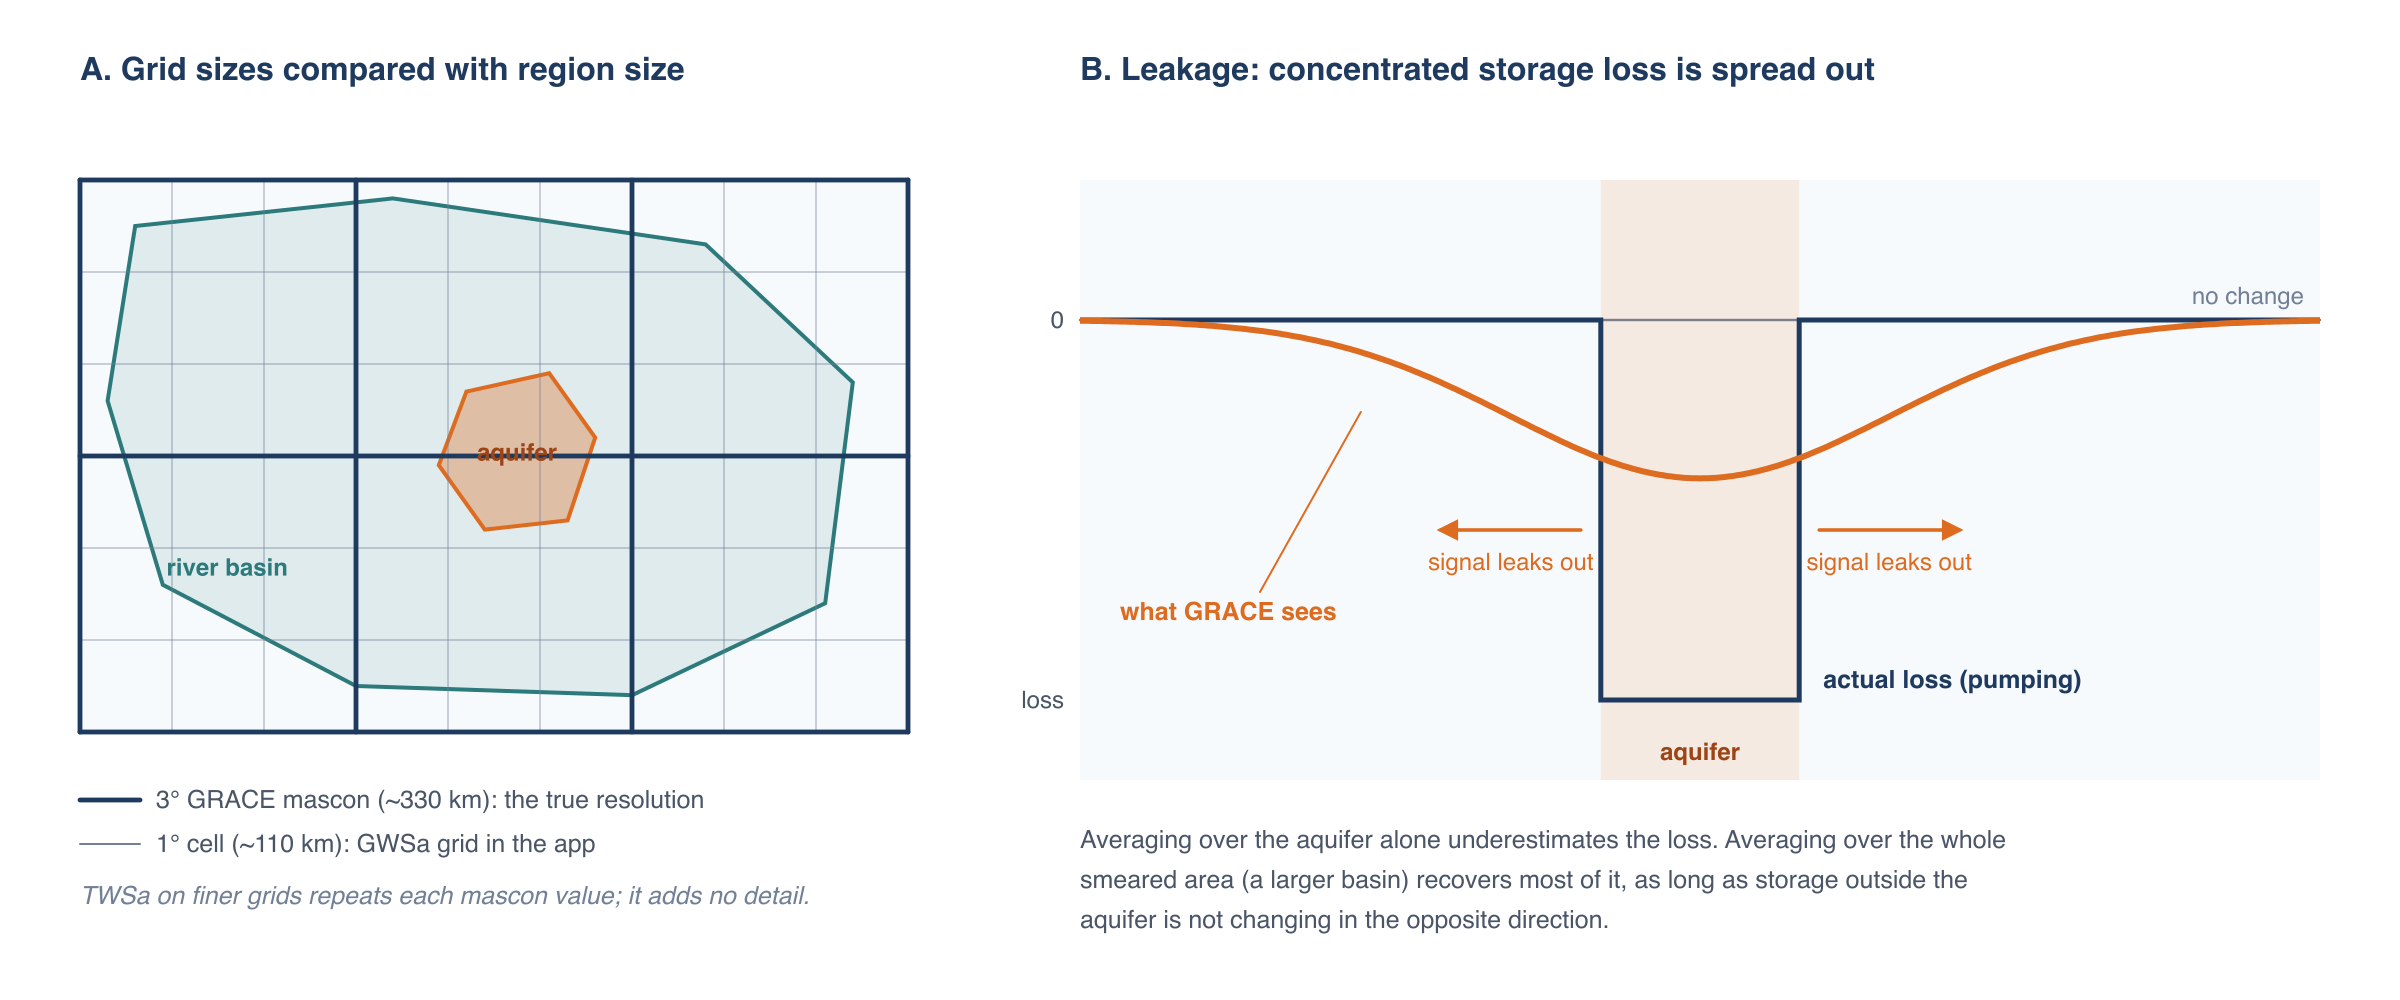
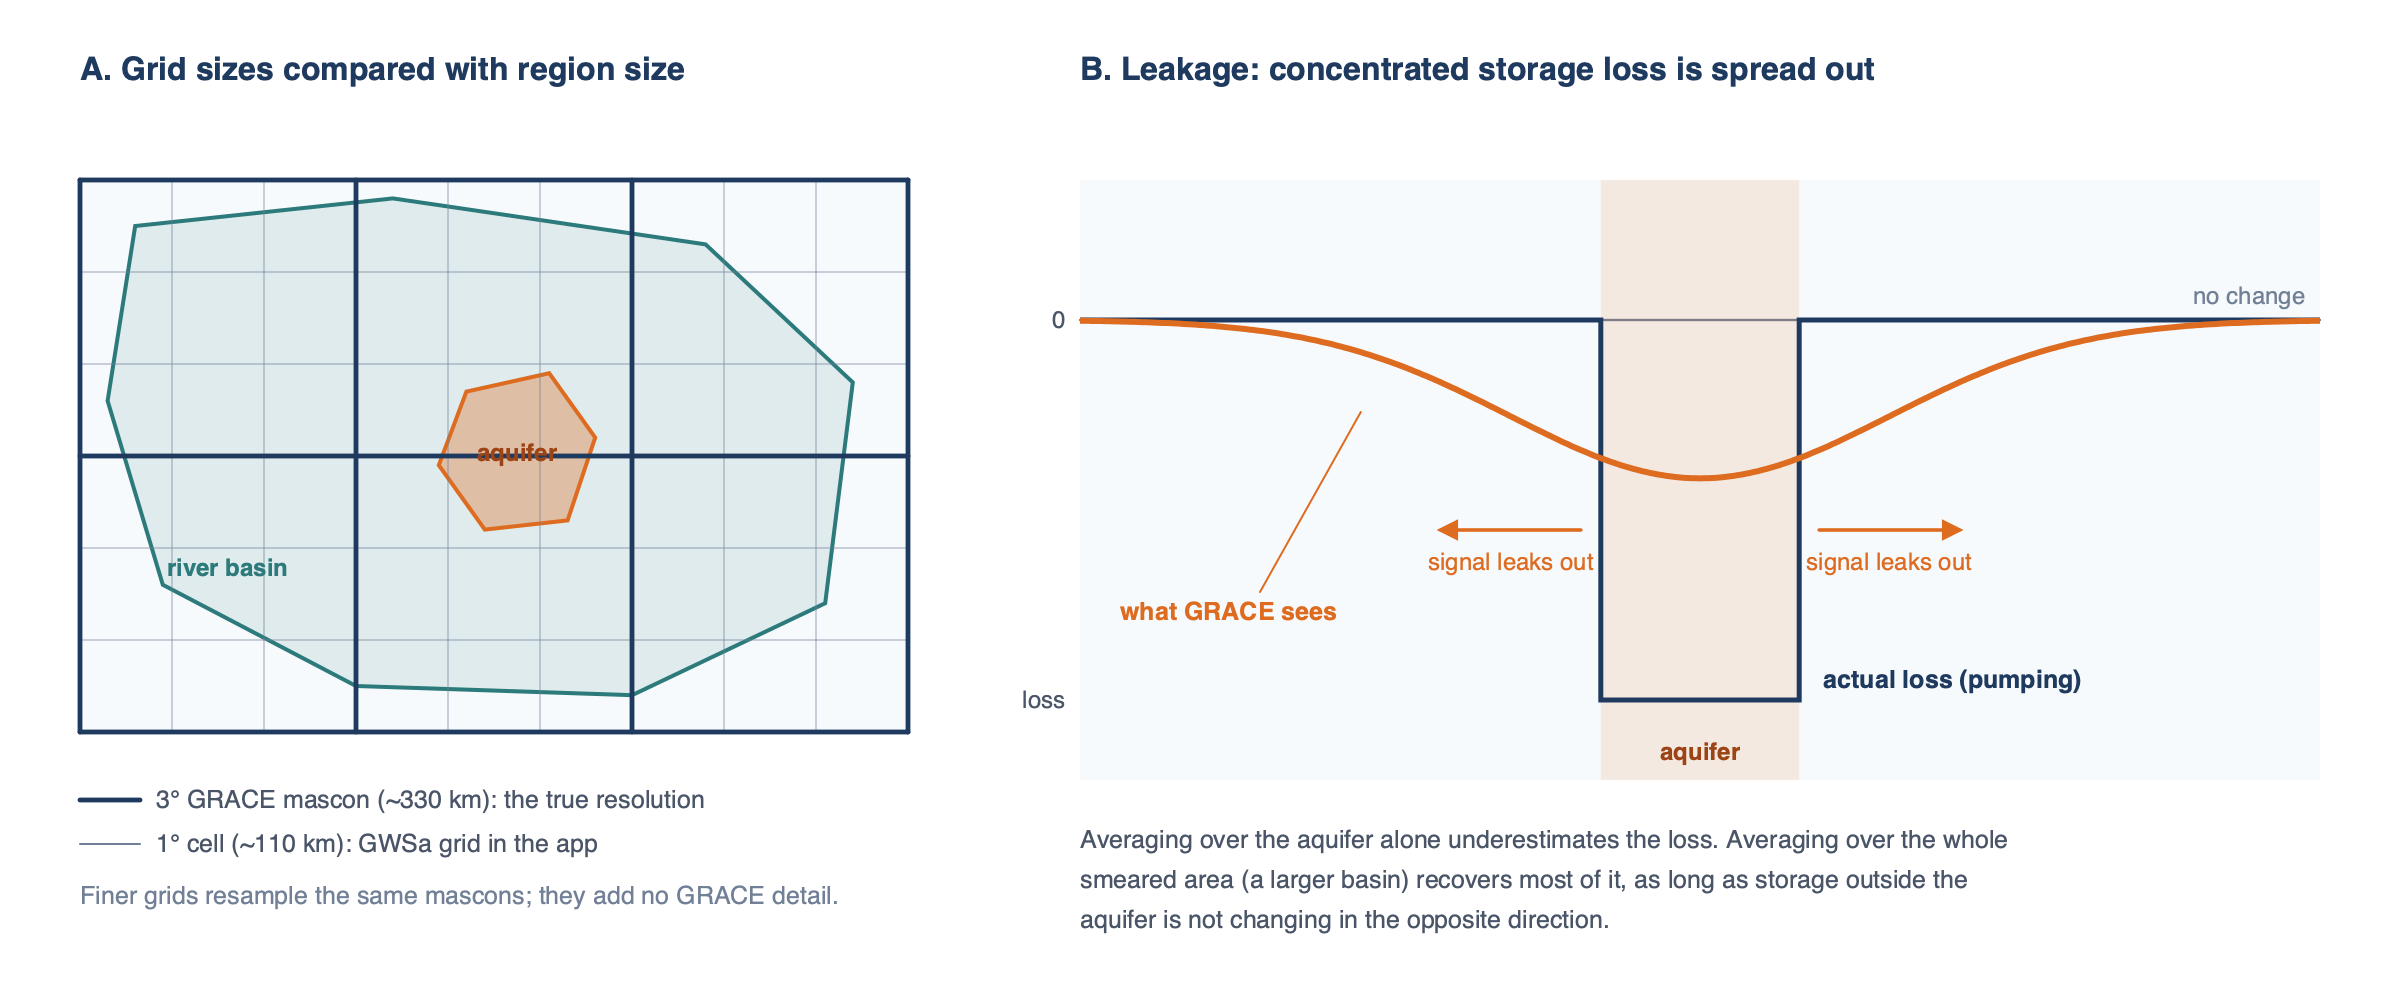
Fix the same stale claim in the resolution figure
Panel A carried the line "TWSa on finer grids repeats each mascon value;
it adds no detail", which the gain factors made untrue and which I had
corrected in the page text while leaving the picture beside it saying
the opposite. It now reads "Finer grids resample the same mascons; they
add no GRACE detail", which is still the point and is still true.

Claude-Session: https://claude.ai/code/session_01Wxw5z6EJHSrer8Y72dcUYt

diff --git a/docs/grace/app/interface.en.md b/docs/grace/app/interface.en.md
@@ -78,7 +78,7 @@ Click **Home** to return to the overview. On the right, **Analyze trends / Hide 
 ![The Display Settings dialog](../../static/images/grace/app-settings.webp){ width="510" }
 
 - **GRACE Mascon Footprints** and **Anomaly Cell Boundaries:** a **Boundary width** slider for each of the two outline layers. The mascon
-  section also carries a note on why the finer grids add no GRACE detail.
+  section also carries a note on why a finer grid is not a finer measurement.
 - **Show color bar on map:** hide or show the color bar.
 - **Dynamic scale (fit to data):** with this on, the color scale stretches to fit the data you're looking at, so small anomalies remain visible.
   In a region it fits the largest absolute value in the region's cells over the whole record; in the global view it fits the 95th percentile of
